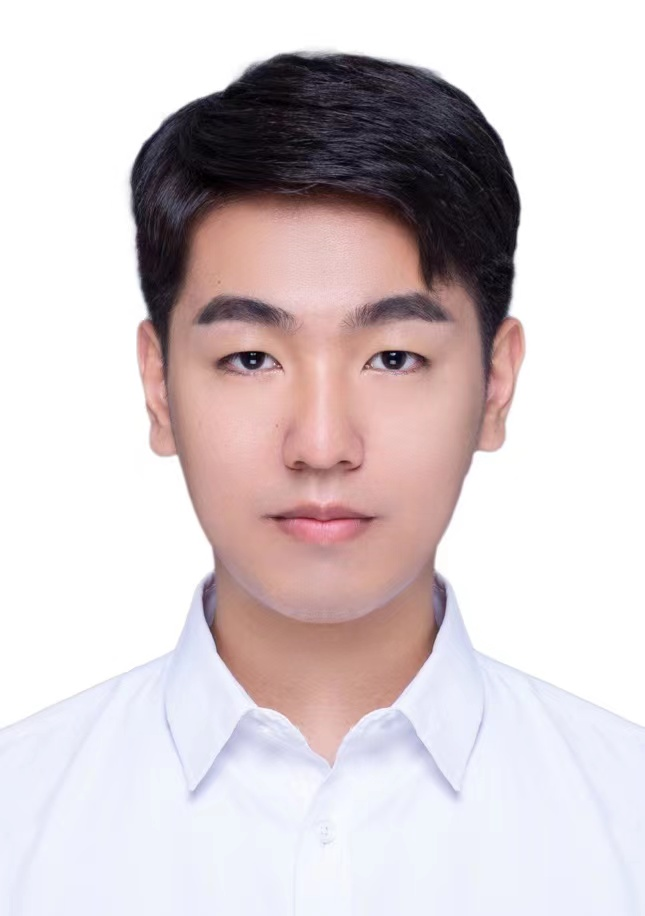
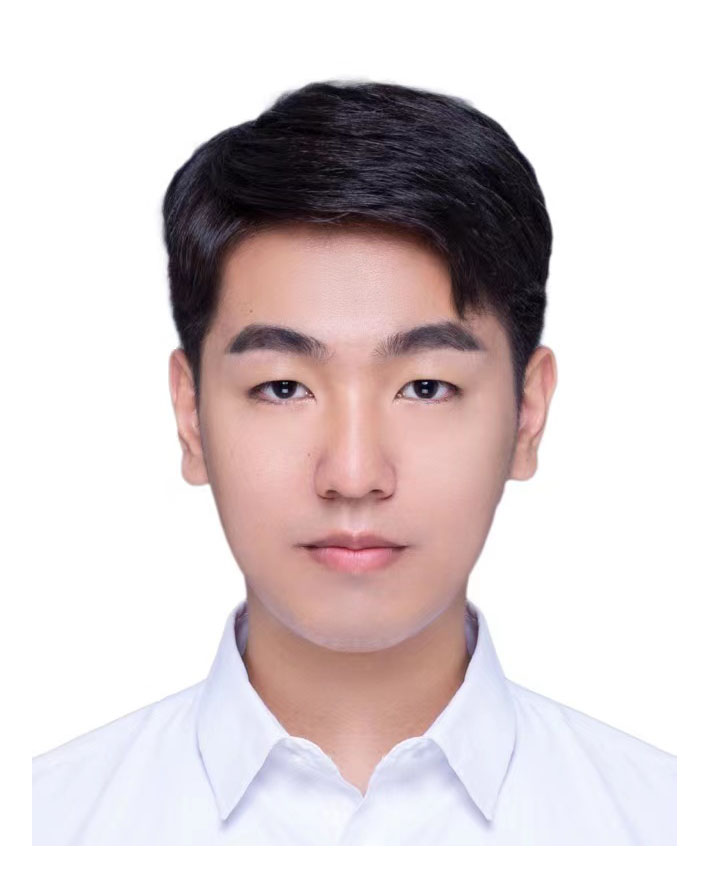
Add files via upload

diff --git a/README.md b/README.md
@@ -7,63 +7,127 @@ Our main research focuses are reinforcement learning, energy management for hybr
 ***
 # People
 ### Principal Investigator:
-
-
-  &emsp;<img align="left" src="assets/YuanLin.jpg" width="200" height=""/>
-
-
+  &emsp;<img align="left" src="assets/YuanLin.jpg" width="225" height=""/>
  Yuan Lin(林远):<br />Yuan Lin (Member, IEEE) received the B.E. degree in civil engineering from Nanchang University, Nanchang, China, in 2011 and the Ph.D. degree in engineering mechanics from Virginia Tech, Blacksburg, VA, USA, in 2016. He was a Postdoctoral Fellow with Mechanical Engineering Department, Virginia Tech, from 2016 to 2018, and was with the Systems Design Engineering Department, University of Waterloo, Waterloo, ON, Canada, from 2018 to 2020. He is currently an Assistant Professor with the Shien-Ming Wu School of Intelligent Engineering, South China University of Technology, Guangzhou, China. His research interests include autonomous driving, reinforcement learning, and hybrid electric vehicles.
 
+<br/>
+<br/>
+<br/>
+<br/>
+
 ***
+
 ## PhD Students:
-&emsp;<img src="assets/Changfu Gong.jpg" width="150" height="200"/>
+&emsp;<img align="left" src="assets/Changfu Gong.jpg" width="150" height=""/>
 * Changfu Gong（龚长富）:September 2021 - Present<br/>
 Research focus: Reinforcement Learning, Energy Management for Hybrid Electric Vehicles
 
-&emsp;<img src="assets/Jinming Xu.jpg" width="150" height="200"/>
+<br/>
+<br/>
+<br/>
+<br/>
+<br/>
+<br/>
+<br/>
+<img align="left" src="assets/Jinming Xu.jpg" width="150" height=""/>
  
 * Jinming Xu（徐锦明）:September 2021 - Present<br/>
 Research focus: Mixed Integer Control, Safe Reinforcement Learning.
-
+<br/>
+<br/>
+<br/>
+<br/>
+<br/>
+<br/>
+<br/>
 
 ***  
+
 ## Master Students:
-&emsp;<img src="assets/Xiao Liu.jpg" width="150" height="200"/> 
+&emsp;<img align="left" src="assets/Xiao Liu.jpg" width="150" height=""/> 
 * Xiao Liu（刘啸）：September 2021 - Present<br/>
 Research focus: Reinforcement Learning,Intelligent Lane Change, Optimal Control
-
-&emsp;<img src="assets/Qitao Li.jpg" width="150" height=""/> 
+<br/>
+<br/>
+<br/>
+<br/>
+<br/>
+<br/>
+<br/>
+&emsp;<img align="left" src="assets/Qitao Li.jpg" width="150" height=""/> 
 * Qitao Li（黎启涛）：September 2022 - Present<br/>
 Research focus: Adaptive Cruise Control,Hybrid Electric Vehicles
-
-&emsp;<img src="assets/Ruichen Xu.jpg" width="150" height="200"/> 
+<br/>
+<br/>
+<br/>
+<br/>
+<br/>
+<br/>
+<br/>
+&emsp;<img align="left" src="assets/Ruichen Xu.jpg" width="150" height=""/> 
 * Ruichen Xu（徐瑞辰）：September 2022 - Present<br/>
-Research focus: Reinforce Learning
-
-&emsp;<img src="assets/Hao Zhang.jpg" width="150" height=""/> 
+Research focus: Reinforcement Learning
+<br/>
+<br/>
+<br/>
+<br/>
+<br/>
+<br/>
+<br/>
+&emsp;<img align="left" src="assets/Hao Zhang.jpg" width="150" height=""/> 
 * Hao Zhang（张浩）：September 2022 - Present <br/> 
 Research focus: Energy Management for Hybrid Electric Vehicles
+<br/>
+<br/>
+<br/>
+<br/>
+<br/>
+<br/>
+<br/>
 
 
-
-&emsp;<img src="assets/Haonan Wu.jpg" width="150" height=""/> 
+&emsp;<img align="left" src="assets/Haonan Wu.jpg" width="150" height=""/> 
 * Haonan Wu（吴浩楠）：September 2022 - Present<br/>
-Research focus: Reinforce Learning
+Research focus: Reinforcement Learning
 
+<br/>
+<br/>
+<br/>
+<br/>
+<br/>
+<br/>
+<br/>
 
-
-&emsp;<img src="assets/Antai Xie.jpg" width="150" height=""/> 
+&emsp;<img align="left" src="assets/Antai Xie.jpg" width="150" height=""/> 
 * Antai Xie（谢安泰）：September 2022 - Present<br/>
 Research focus: Deep Learining
-
-&emsp;<img src="assets/Zishun Zheng.jpg" width="250" height=""/> 
+<br/>
+<br/>
+<br/>
+<br/>
+<br/>
+<br/>
+<br/>
+&emsp;<img align="left" src="assets/Zishun Zheng.jpg" width="150" height=""/> 
 * Zishun Zheng（郑子顺）：September 2023 - Present<br/>
 Research focus: Autonomous Lane Change of Intelligent Vehicle
-
-&emsp;<img src="assets/Liyao Wang.jpg" width="150" height=""/> 
+<br/>
+<br/>
+<br/>
+<br/>
+<br/>
+<br/>
+<br/>
+&emsp;<img align="left" src="assets/Liyao Wang.jpg" width="150" height=""/> 
 * Liyao Wang（王立尧）：September 2023 - Present<br/>
-Research focus: Reinforce Learning
-
+Research focus: Reinforcement Learning
+<br/>
+<br/>
+<br/>
+<br/>
+<br/>
+<br/>
+<br/>
 ***	
 # Publications
 * [[1]Yuan Lin, John McPhee, Nasser L. Azad, 2022: “Co-optimization of on-ramp merging and plug-in hybrid electric vehicle power split using deep reinforcement learning,”IEEE Transactions on Vehicular Technology. Accepted.](https://ieeexplore.ieee.org/abstract/document/9757859)
